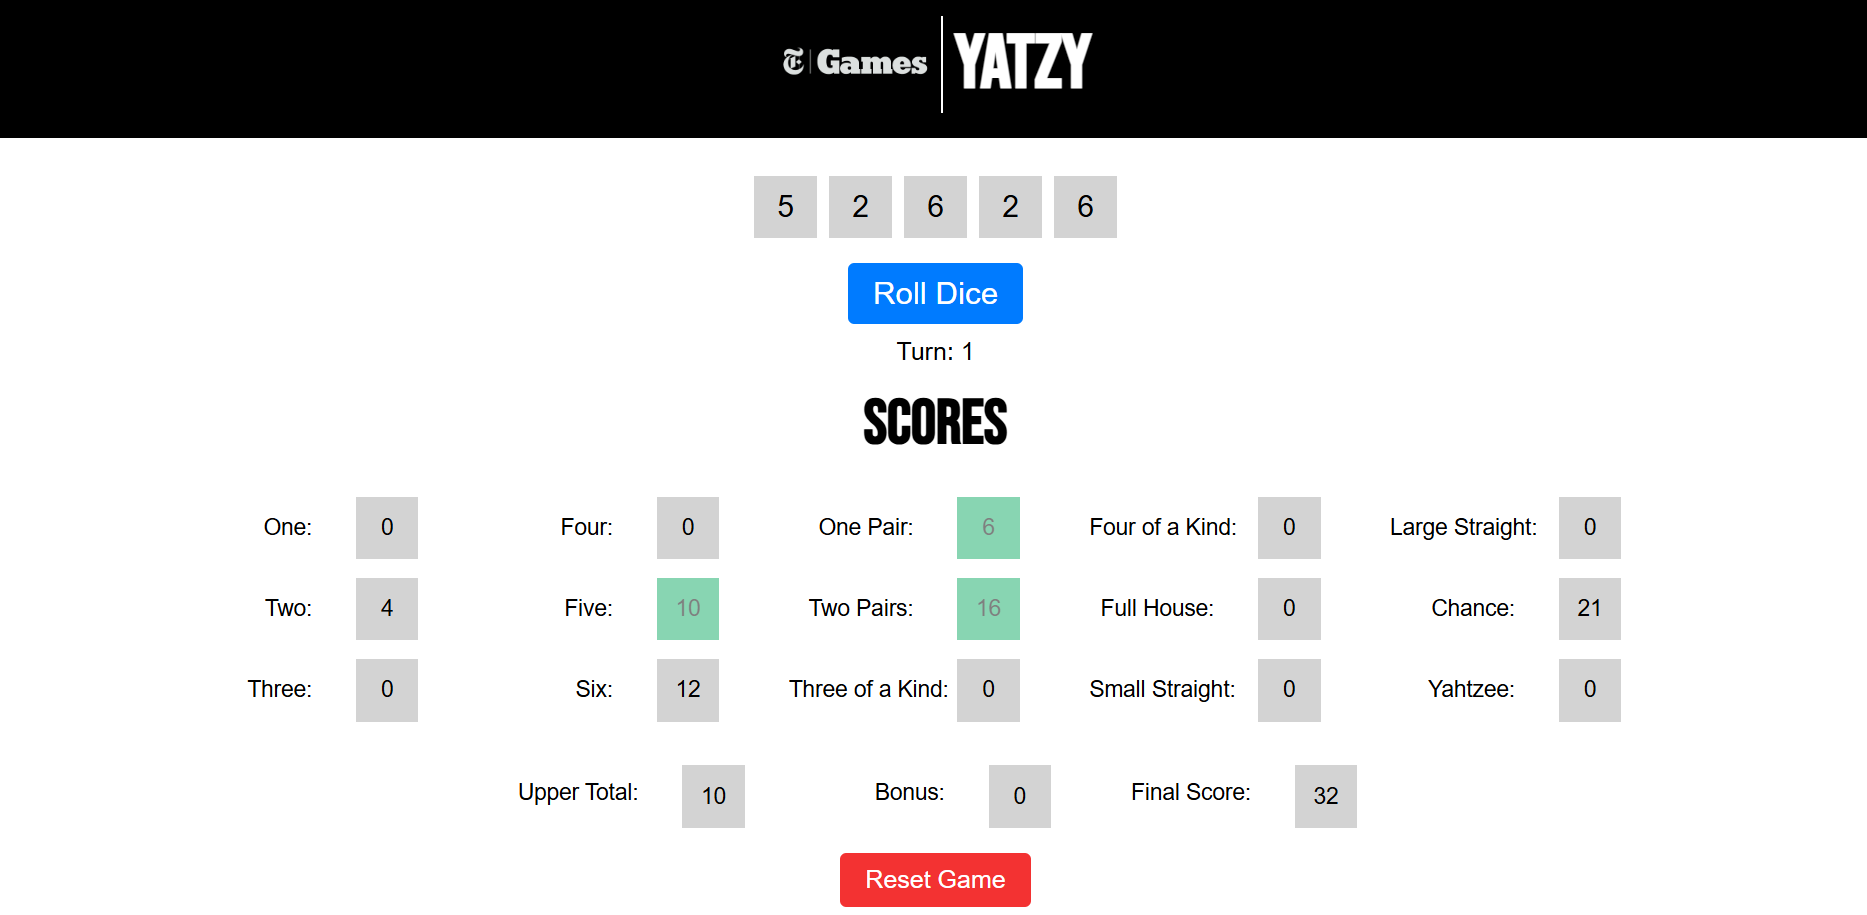
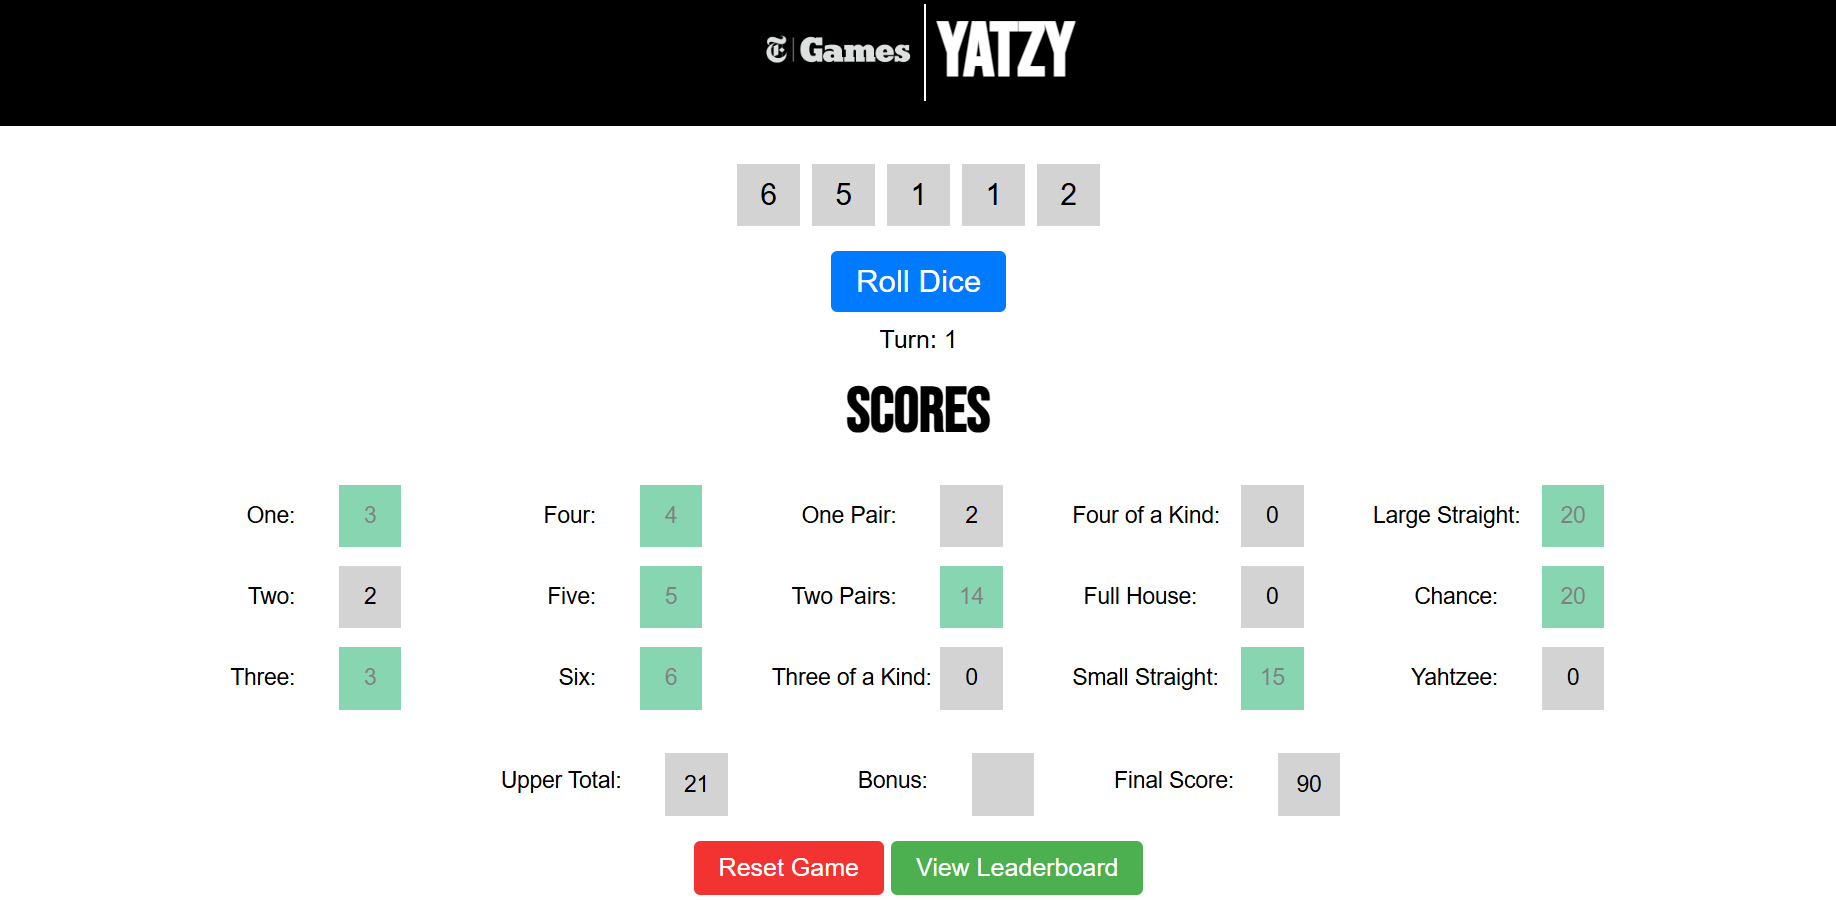
Updating ReadME

diff --git a/public/app/models/YatzyEngine.php b/public/app/models/YatzyEngine.php
@@ -128,12 +128,12 @@ class YatzyEngine {
 
     public static function getSmallStraightScore($dice) {
         $smallStraight = [1, 2, 3, 4, 5];
-        return count(array_intersect($dice, $smallStraight)) === 5 ? 15 : 0;
+        return empty(array_diff($smallStraight, $dice)) ? 15 : 0;
     }
 
     public static function getLargeStraightScore($dice) {
         $largeStraight = [2, 3, 4, 5, 6];
-        return count(array_intersect($dice, $largeStraight)) === 5 ? 20 : 0;
+        return empty(array_diff($largeStraight, $dice)) ? 20 : 0;
     }
 
 

diff --git a/README.md b/README.md
@@ -9,7 +9,9 @@ Patrick Meyer 300220498
 
 ## How To Use
 
-As described in the assignment document, Yatzy is a dice game that requires the player to spin 5 dice up to 3 times per turn. On our website, you can roll the dice, and you will see the 5 dice, as well as which turn you're on. The dice can be selected and de-selected in order to keep them for the next turn. After each roll of the dice, you can select on of the dice combinations by clicking on the box, which will be highlighted in green. Aferwards, re-roll the dice until there are no more boxes. After the last box is used, a window will popup with the final score. The game can be restarded with the "Reset Game" button.
+As described in the assignment document, Yatzy is a dice game that requires the player to spin 5 dice up to 3 times per turn. On our website, you can roll the dice, and you will see the 5 dice, as well as which turn you're on. The dice can be selected and de-selected in order to keep them for the next turn. After each roll of the dice, you can select on of the dice combinations by clicking on the box, which will be highlighted in green. Aferwards, re-roll the dice until there are no more boxes. After the last box is used, a window will popup with the final score. The game can be restarded with the "Reset Game" button. The leaderboard can be viewed by pressing on the view leaderboard button, where the top 10 results will be displayed.
+
+The management of the leaderboard is done in the api.php file, in the checkGameWin() function.
 
 ## My Design System
 
@@ -36,3 +38,9 @@ This is during the game.
 ![End Game](/docs/ui_states/end_game.png)
 
 This is at the end of the game.
+
+### View Leaderboard
+
+![End Game](/docs/ui_states/view_leaderboard.png)
+
+This is when viewing the leaderboard.
